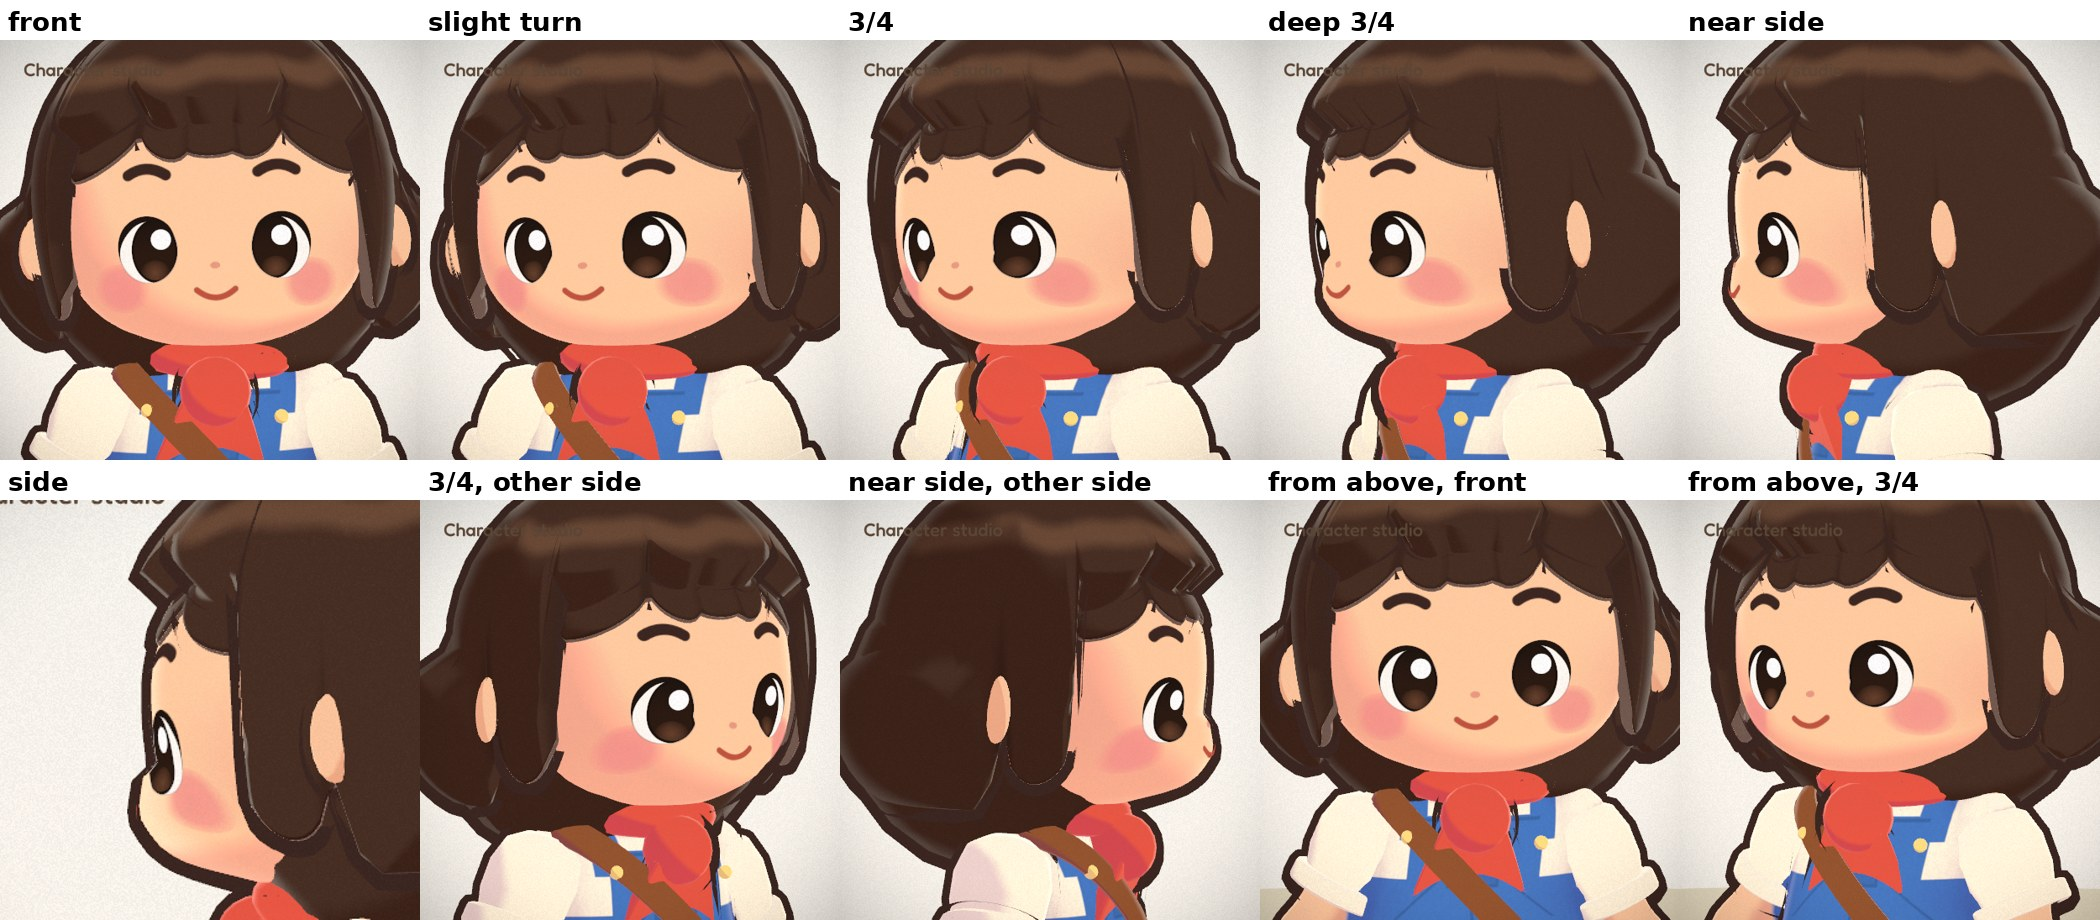
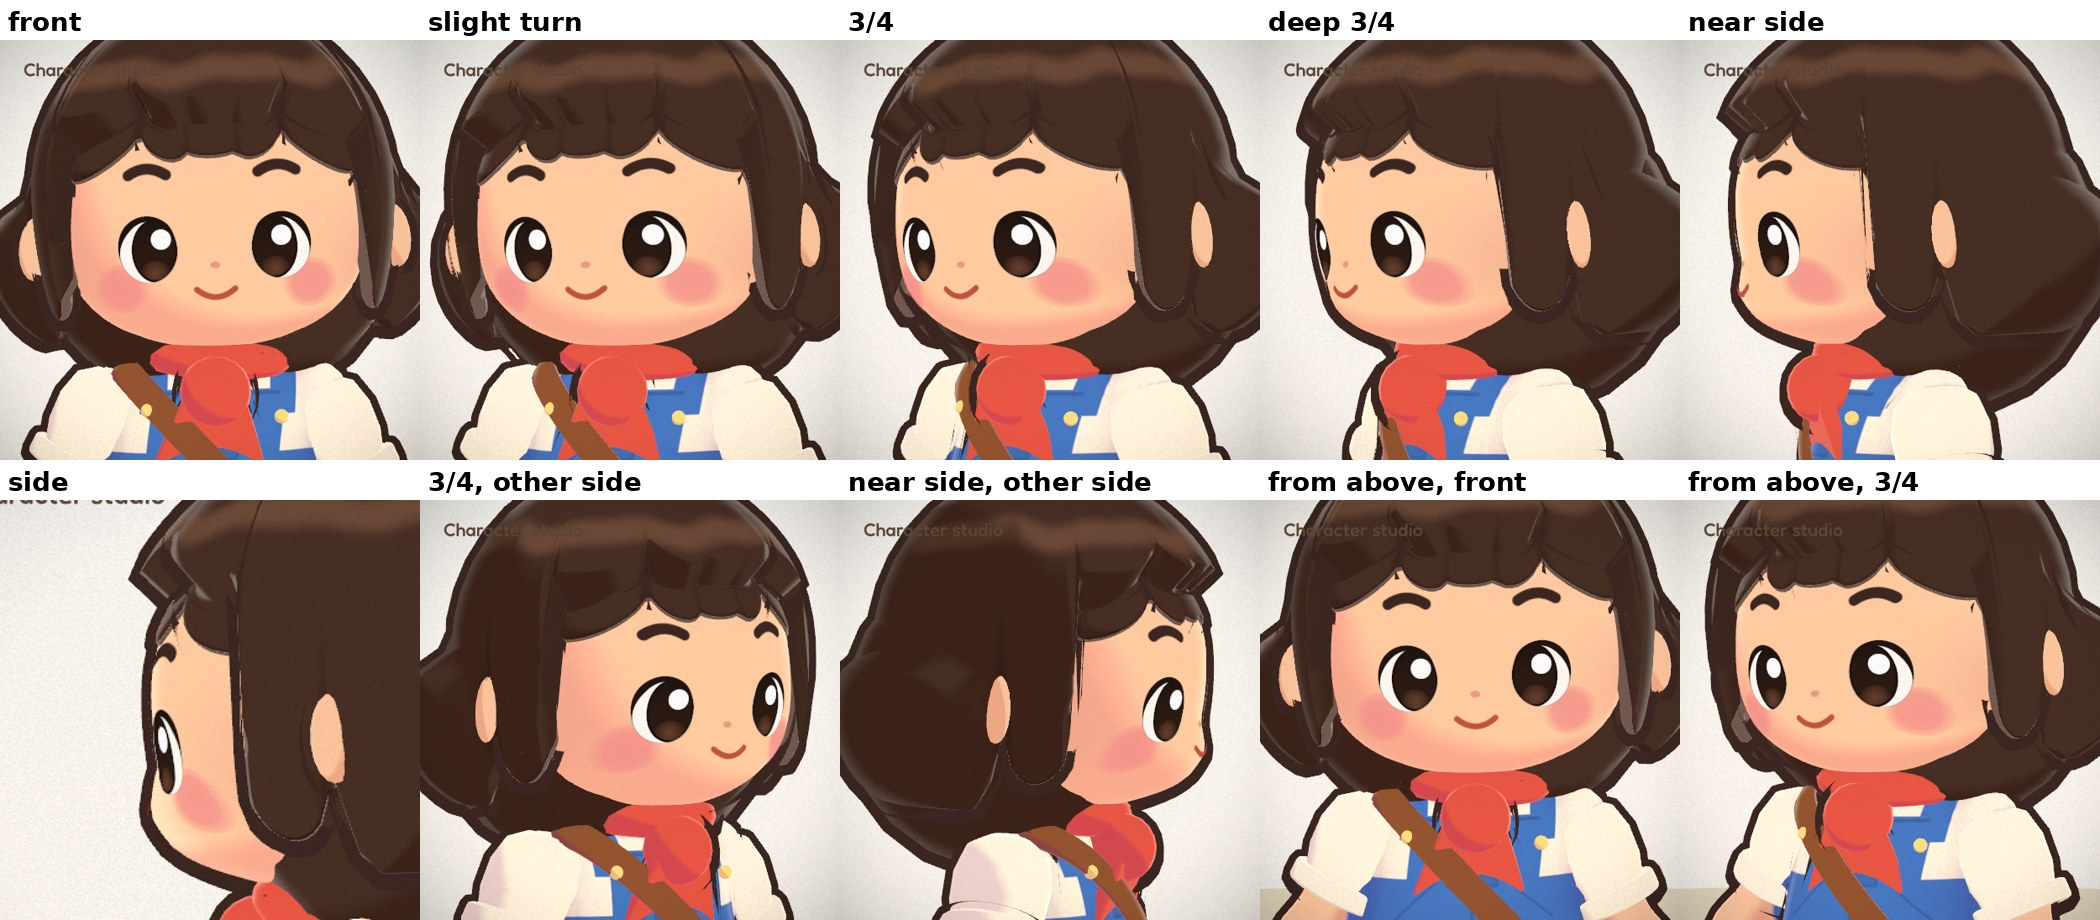
Chibi her: lock the face (halfway between options C and D) and make her the character template
- MIDFACE: the 12k nose and chin shapes moved back 0.0033 (KT's pick from a ladder of steps).
- Design doc: a 'Character template' section with the locked values, the approved
  turnaround and ten-angle face sheets, and how to judge a new character against them;
  passes 10-12 marked approved.
- Project skill chibi-character points future character work to the template.
- Reference sheets regenerated with tools/chibi-shots.mjs.

Claude-Session: https://claude.ai/code/session_01CNaBwKeoAmJh2XGTbcWf7U

diff --git a/src/art/chibi/ChibiHer.jsx b/src/art/chibi/ChibiHer.jsx
@@ -127,10 +127,10 @@ const CHEEK = [0, -0.026, 0.012, 0.05, 0.0295, 0.035, 0.016] // pass 5: one wide
 // curve into the chin, its front level with the box's at their seam.
 // [y, z, rx, ry, rz, smin k]           ellipsoid (radii)
 // [y, z, rx, hy, rz, smin k, round r]  oval column (cross-section radii, half height, edge radius)
-const MIDFACE = [[-0.0278, 0.043, 0.02, 0.0058, 0.014, 0.0012, 0.001], [-0.0345, 0.0336, 0.03, 0.0162, 0.0243, 0.0055]] // 12k values (KT's pick)
+const MIDFACE = [[-0.0278, 0.0397, 0.02, 0.0058, 0.014, 0.0012, 0.001], [-0.0345, 0.0303, 0.03, 0.0162, 0.0243, 0.0055]] // LOCKED (KT, template): the 12k shapes moved back 0.0033, a soft nose and chin
 // 12m (KT: smoother in 3/4 without touching the side view): every swell recedes as MID_FADE * x^2 away from the centre
 // line. Zero on the centre line, so the profile is exactly the same; in 3/4 the swells ease back into the cheeks.
-const MID_FADE = 0 // KT went back to 12k (no fade); raise it to ease the swells into the cheeks in 3/4
+const MID_FADE = 0 // locked at 0; raise it to ease the swells into the cheeks in 3/4 (never changes the profile)
 const smin = (a, b, k) => { const h = Math.max(k - Math.abs(a - b), 0) / k; return Math.min(a, b) - h * h * k * 0.25 }
 // a short vertical column with an oval cross-section (rx, rz), half height hy, rounded top/bottom edges r: a flat vertical
 // front with a crisp step in profile, but sides that round back into the cheeks in 3/4 (a box's side edge read as a beak)

diff --git a/docs/characters/chibi-character-design.md b/docs/characters/chibi-character-design.md
@@ -4,24 +4,54 @@ In-repo design reference for Tiny Planet humans in the approved Cozy Chibi style
 
 Use this when designing or implementing a human in the approved "Cozy Chibi" style (concept B). Do **not** build villagers from this document until KT asks. This is the style and implementation reference taken from her (the player).
 
+## Character template (locked by KT, pass 12): start every new chibi here
+
+Her current build is **the template for every future chibi character**. A new character starts from this look and these
+numbers, and changes only what its concept sheet asks for (see section 4). Golden reference for her: [`ref/her-turnaround-satchel.jpg`](ref/her-turnaround-satchel.jpg).
+
+![Approved template: turnaround](ref/her-approved-turnaround.jpg)
+
+![Approved template: face from ten angles](ref/her-approved-face-angles.jpg)
+
+**What is locked** (source of truth `src/art/chibi/ChibiHer.jsx`; numbers are in the head frame unless stated):
+
+| Area | Locked choice |
+|---|---|
+| Face features | Pass 8 eyes; pass 10 layout (eye line `E10Y -0.0048`, `E10X -0.0009`; nose dot, mouth and blush follow); brows line width `0.0040 * s` |
+| Skin | `#f3bf98` |
+| Profile (nose and chin) | `MIDFACE`: an oval column `[-0.0278, 0.0397, 0.02, 0.0058, 0.014, 0.0012, 0.001]` (the step out under the eye and the flat front) and a chin ellipsoid `[-0.0345, 0.0303, 0.03, 0.0162, 0.0243, 0.0055]`; `MID_FADE = 0`. Shading and AO ignore these shapes, so the front view is just the painted nose dot. Side view: a soft step under the eye, a short flat front past the mouth, a gradual curve into the chin |
+| Hair | Pass 11 continuous lobe (`flare()`, `FL 0.34`, `FL_BACK 0.25`; no side-puff spheres), helmet `RH [0.069, 0.0712, 0.0668]`, slim side locks (azimuth ±1.04..±1.42, tip -0.041), top bun unchanged |
+| Ears | Small flat skin ovals `[0.0042, 0.0122, 0.0076]` at `EAR {x 0.068, y -0.0165, z 0.0025}`, turned forward 0.75, no ink |
+| Body | Pass 3/4 proportions; ankle `anY 0.044`, `leg 0.96`; boots `bootH 1.45`, `bootL 1.04`, `soleY`, `bootShaft`, shoe `#83492a` with a painted sole and welt |
+| Outfit | Shirt `#f7ead3`, denim `#4271b8`, scarf `#d9503f`; flat rolled sleeve and jeans cuffs (`SLEEVE_GEO`, `CUFF_GEO`); ribbon scarf tails; painted seams (`outfit.seams`) |
+| Satchel | `satchel.js`, `BAG_S 0.079`, wide flat strap |
+| Cost | Studio 26 draw calls; head 19 calls / ~57.2k tris in the face close-up |
+
+**How to judge a new character against the template**
+
+1. Run the dev server (`npm run dev`) and take the standard review set with `node tools/chibi-shots.mjs <outDir>`: a four-angle turnaround plus the face from ten angles (front round to the side on both sides, a face-framed side, and two downward game-camera views). Build the same two sheets as above for the new character and show them side by side with its concept sheet and with her sheets.
+2. Always check 3/4 and deep 3/4 as well as the side. Every profile change in this pass first went wrong in 3/4 (a beak, then a muzzle). Narrow face shapes stick out in 3/4; keep any profile shape broad (rx >= 0.02) and judge it from all ten angles.
+3. Offer KT small, equal steps to pick from rather than one guess (the profile here was chosen from a ladder of 0.0006 steps). Show options side by side; commit only the one KT picks.
+4. Check the game camera and a walk cycle before calling it done (hair through shoulders, bag against the swinging arm).
+
 ## Approved baseline
 
 - **Pass 8** (face and eyes): live on `main` as merge `56a09bd`. Face layout is pass 6 subtle (`FT = 1`); the iris, crescent and lid line are pass 8.
 - **Pass 9** (side buns): live on `main` as merge `efc30e1` (from branch `chibi-her-buns`, commit `a701b8a`). Face, eyes, top bun and fringe are unchanged from pass 8.
-- **Pass 10** (turnaround sheet, satchel + hair/face/body details): golden reference [`ref/her-turnaround-satchel.jpg`](ref/her-turnaround-satchel.jpg); before/after [`ref/pass10-turnaround-compare.jpg`](ref/pass10-turnaround-compare.jpg). Not approved yet (awaiting KT).
+- **Pass 10** (turnaround sheet, satchel + hair/face/body details): golden reference [`ref/her-turnaround-satchel.jpg`](ref/her-turnaround-satchel.jpg); before/after [`ref/pass10-turnaround-compare.jpg`](ref/pass10-turnaround-compare.jpg). Approved by KT as part of the template (see below).
   - Satchel (`src/art/chibi/satchel.js`, via the optional `ext.Bag` hook): top handle, stitched flap with two buckled straps, side pockets with a daisy and a scroll, plaid blanket roll with two ties, gold compass charm. One vertex-coloured cel mesh + one ink hull (still 2 draws). Placement `BAG_AT` in `ChibiHer.jsx`; flat wide strap via `ext.strap[6]` / `ext.strapC`.
   - Face: eye line lower (`E10Y = -0.0048`) and a touch closer (`E10X = -0.0009`); nose, mouth and blush follow (`F10` scales it).
   - Hair: wider, rounder dome (`RH = [0.069, 0.0712, 0.0668]`), broad straight side locks from azimuth ±0.9 down to the jaw (they frame the face as on the sheet), fuller back volume, side puffs stretched front-to-back so they read as the bob's curled hem. Ears are still left out.
   - Body: sheet palette (shirt `#f7ead3`, denim `#4271b8`, scarf `#d9503f`), rolled sleeve cuffs (`ext.sleeveGeo`), broad notched scarf tails hanging down (`ext.tailGeo`, `ext.tails`, `ext.tailX`), painted overalls seams (`outfit.seams`: bib pocket rim, fly, hip pockets, bib top). All hooks default to the old look for villagers.
   - Cost: draw calls unchanged (studio 26); her tris ~59.4k -> ~64.7k; startup entry +0.3 KB gz (hooks only).
-- **Pass 11** (KT feedback on pass 10): before/after [`ref/pass11-turnaround-compare.jpg`](ref/pass11-turnaround-compare.jpg). Not approved yet (awaiting KT).
+- **Pass 11** (KT feedback on pass 10): before/after [`ref/pass11-turnaround-compare.jpg`](ref/pass11-turnaround-compare.jpg). Approved by KT as part of the template (see below).
   - Hair: the separate side-puff spheres are gone. The helmet's lower band flares out horizontally (`flare()`, round profile, `FL` at the sides easing to `FL_BACK` behind, zero across the face and side locks), so the sides and back are one continuous lobe with one ink hull; the flare rides the side springs (`aW` 0/1). Rows bunch toward the hem (`NT = 18`), denser azimuths behind. Do not carve a niche for the ears (it folded the shell into ink shards).
   - Ears are back (skin, `aSkin = 1`, `EAR`), resting on the hair just behind the side locks, above the flare.
   - Rolled sleeves and jeans cuffs are flat folded bands (lathe profiles, `SLEEVE_GEO` band and `ext.cuffGeo`), not round donuts.
   - Satchel `BAG_S` 0.1 -> 0.088.
   - Boots: optional body knobs `anY` (ankle up 0.01, with `leg` 1.06 -> 0.96 so the hip stays put), `footY`, `soleY` (flat sole cut), `bootShaft` (chunky ankle); `bootH` 1.45, `bootL` 1.04, `shoeY` 0.05, shoe `#83492a`; a darker painted sole band with a welt line (`outfit.seams`). All knobs default to the old foot.
   - Cost: draw calls unchanged (studio 26); her tris ~64.7k -> ~67.5k; startup entry +0.2 KB gz.
-- **Pass 12** (KT feedback on pass 11): before/after [`ref/pass12-turnaround-compare.jpg`](ref/pass12-turnaround-compare.jpg). Not approved yet (awaiting KT).
+- **Pass 12** (KT feedback on pass 11): before/after [`ref/pass12-turnaround-compare.jpg`](ref/pass12-turnaround-compare.jpg). Approved by KT as part of the template (see below).
   - Kept pass 11's continuous lobe (KT preferred it over the pass-10 puffs after trying both).
   - Side locks slimmer again (azimuth ±1.04..±1.42, tip -0.041).
   - Ears small and flat against the head, turned forward (`EAR`, radii 0.0042 / 0.0094 / 0.0072), not round balls.
@@ -31,7 +61,7 @@ Use this when designing or implementing a human in the approved "Cozy Chibi" sty
   - 12l (KT: 3/4 a bit like a monkey): softer and less forward. Column rx 0.016, edge r 0.002, blend k 0.0035, a touch further back; chin ellipsoid 0.0014 further back with a softer blend (k 0.0075). The profile keeps its step, vertical front and chin curve, slightly softer.
   - 12m (KT: smoother in 3/4, side view untouched): every MIDFACE shape recedes by `MID_FADE * x^2` (16, head frame; body knob `midfaceFade`) away from the centre line, and the shapes are wider (rx 0.03 / 0.038) so the fade, not their edges, sets how they meet the cheeks. Zero on the centre line, so the profile is exactly unchanged. To soften 3/4 further, raise `MID_FADE`; it never changes the side view.
   - 12n tried `MID_FADE` 28; KT kept 16. Limit for later: a strong fade turns the swell into a thin keel down the centre line, whose side becomes a real contour in 3/4 and picks up a line of ink by the mouth (faint at 30, plain at 34+), and at 45+ the keel is finer than the bake grid so the profile weakens. Thinning the hull's ink on the keel's flanks was tried and broke the profile outline; do not repeat it.
-  - Current (KT's pick after comparing): back to the 12k face, `MIDFACE` as in 12k and `MID_FADE = 0`. The 12l softening and the 12m-12n fades remain available (raise `MID_FADE` to ease the swells into the cheeks in 3/4; it never changes the profile).
+  - Locked (KT): the 12k shapes moved back 0.0033 (`MIDFACE` nose z 0.0397, chin z 0.0303), `MID_FADE = 0`. Picked from a ladder of 0.0006 steps; this is halfway between options C and D. The 12l softening and the 12m-12n fades remain available (raise `MID_FADE` to ease the swells into the cheeks in 3/4; it never changes the profile).
   - Ears longer vertically (ry 0.0122); brows a touch thicker (line width 0.0040).
   - Skin `#f3bf98` (warmer, deeper peach measured off the sheet; was `#f7d3b8`).
   - Satchel `BAG_S` 0.079.

diff --git a/.claude/skills/chibi-character/SKILL.md b/.claude/skills/chibi-character/SKILL.md
@@ -1,0 +1,39 @@
+---
+name: chibi-character
+description: Use when designing, building or changing any Tiny Planet human character in the Cozy Chibi style (her, villagers, Hoshino, Grandma and others): face, hair, ears, profile, body, outfit, props, or matching a concept or turnaround sheet. Starts from the locked template (her, pass 12) and its review workflow.
+---
+
+# Cozy Chibi character template
+
+Her build (the player) is the **locked template** for every chibi character. Start from it; change only what the new
+character's concept sheet asks for.
+
+## Read first
+
+1. `docs/characters/chibi-character-design.md`, section **"Character template (locked by KT, pass 12)"**: the locked
+   values table, the reference sheets and the judging steps. Then sections 1-5 (style rules, technical recipe, workflow,
+   adapting for a villager, pitfalls).
+2. The template sheets: `docs/characters/ref/her-approved-turnaround.jpg` and `her-approved-face-angles.jpg`, and her
+   golden reference `docs/characters/ref/her-turnaround-satchel.jpg`. Look at them before changing anything.
+3. The code: `src/art/chibi/ChibiHer.jsx` (face, hair, ears, profile `MIDFACE`, body knobs, outfit), `src/art/chibi/satchel.js`,
+   and the optional hooks in `src/GhibliPerson.jsx` (they default to the old look, so villagers stay unchanged).
+4. Motion: `docs/characters/chibi-animation-guide.md`.
+
+## Rules
+
+- Do not start a villager or another character until KT asks. When KT asks, share her painter, hair builder and hooks;
+  swap colours, locks and props rather than forking a new pipeline.
+- New look options go behind optional `cfg.body` / `cfg.outfit` / `cfg.ext` fields that default to the old values.
+- Keep to about 22 draw calls per character; merge pieces into one cel mesh and one ink hull.
+- Profile shapes (`MIDFACE`) must stay broad (rx >= 0.02), and their shading ignores them (front view unchanged).
+  Judge any face-shape change from 3/4 and deep 3/4 as well as the side.
+
+## Review workflow
+
+1. `npm run dev`, then `node tools/chibi-shots.mjs <outDir>` for the standard set (four-angle turnaround plus the face from
+   ten angles). The studio camera aims at the body, so the plain side shot needs cropping to the face.
+2. Show KT side-by-side sheets: concept or golden reference, previous, new. For taste calls, offer a ladder of small,
+   equal steps and let KT pick; commit only the chosen one (keep the rest as patches).
+3. Check the game camera (`?view=hero`) and a walk pose (`?view=charstudio&pose=walk&freeze=1.2`).
+4. `npm run build` and `node --test tests/unit/*.test.mjs` must pass.
+5. Record the outcome in the design doc (what changed, the numbers, what KT rejected and why).
